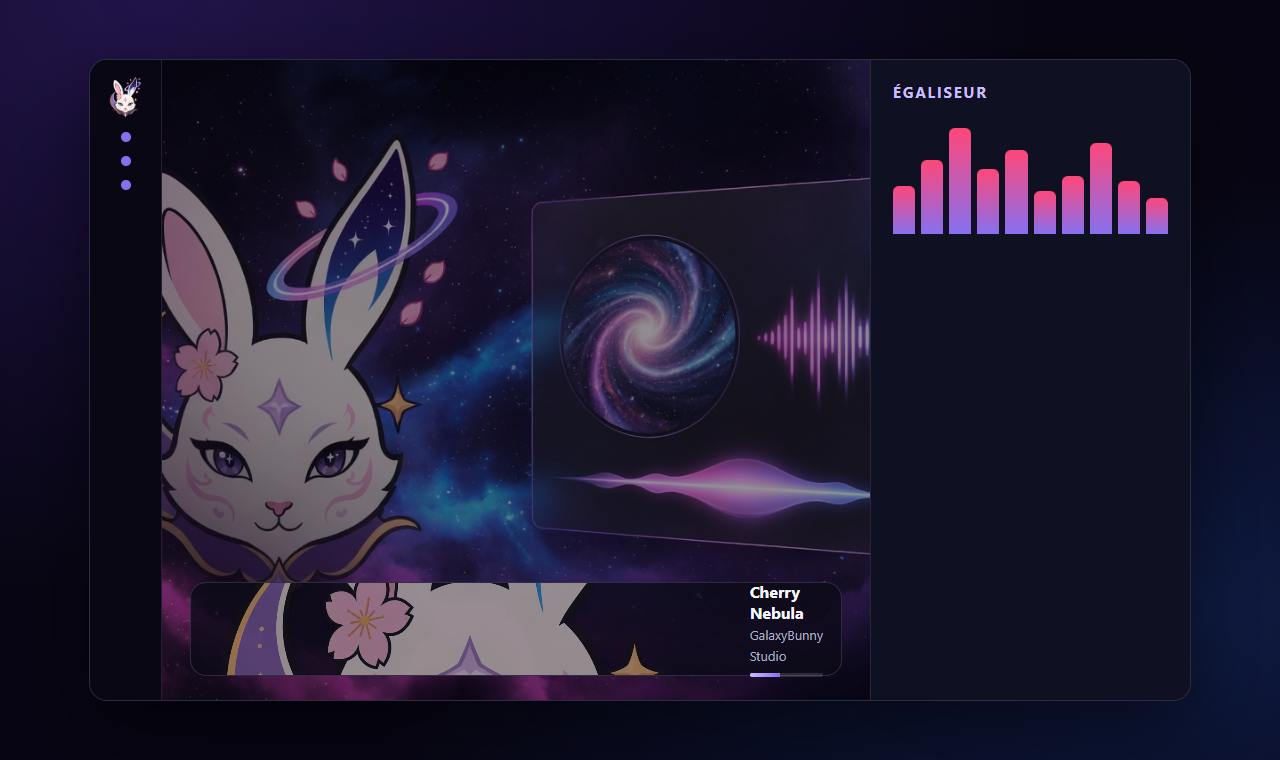
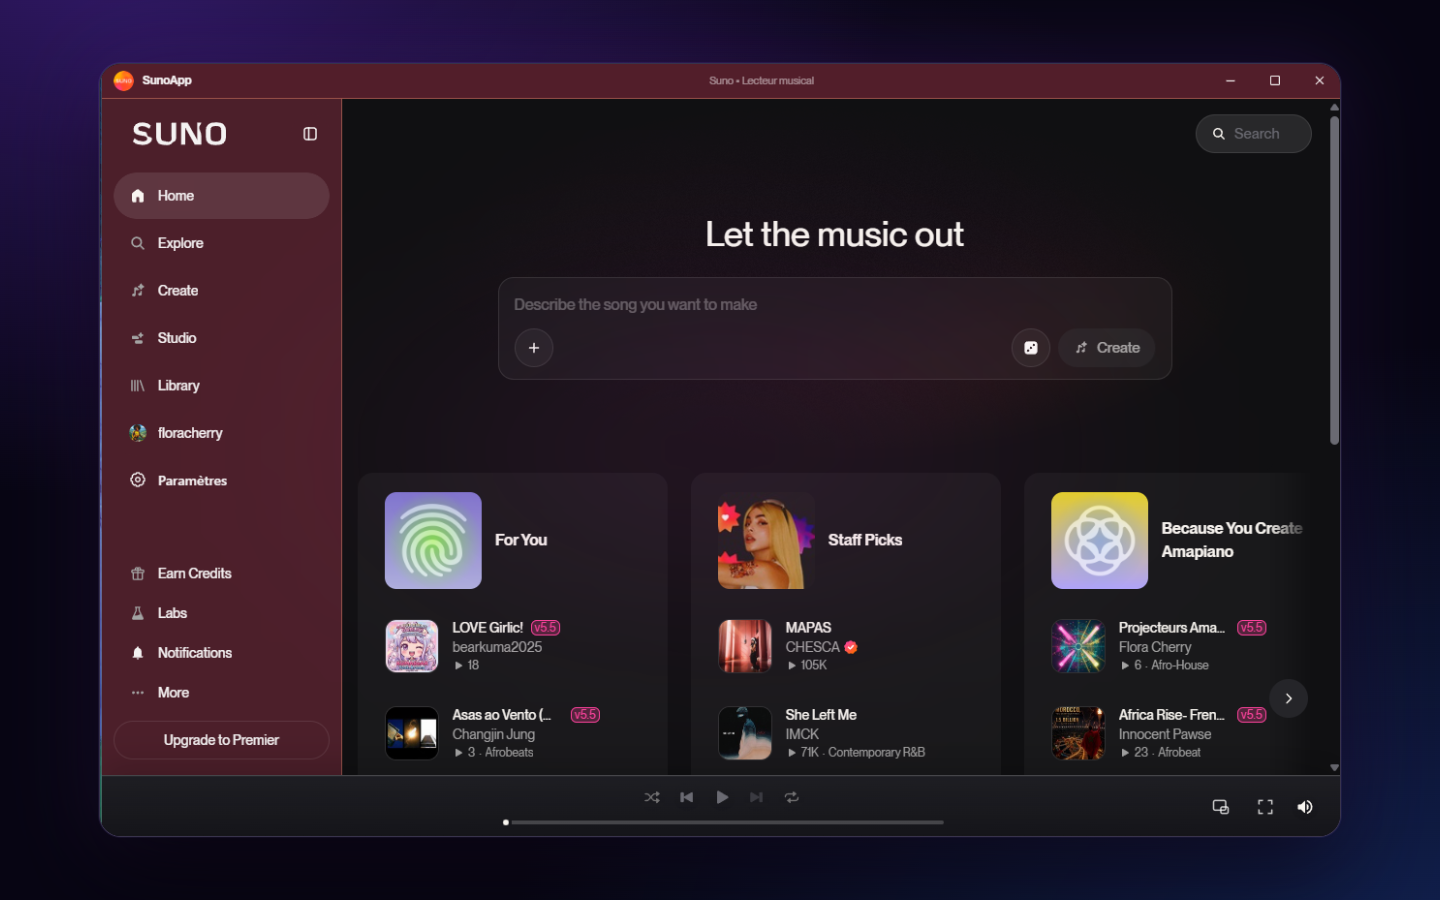
Use real SunoApp window screenshot for preview

diff --git a/docs/i18n.js b/docs/i18n.js
@@ -22,7 +22,7 @@ const I18N = {
     heroLead: "Application de bureau non officielle : lecteur personnalisé, mini-lecteur, égaliseur, thèmes GalaxyBunny. Votre session reste sur la machine.",
     ctaInstall: "Télécharger", ctaDev: "Développer",
     pillWin: "Windows", pillUnofficial: "Non officiel", pillFree: "Gratuit & open source",
-    shotHero: "Lecteur & spectre", shotMini: "Mini-lecteur",
+    shotHero: "SunoApp sur Windows", shotMini: "Mini-lecteur",
     featuresTitle: "Un studio d’écoute, pas seulement un navigateur",
     fPlayerT: "Lecteur personnalisé", fPlayerD: "Pochette, progression, forme d’onde, couleurs dynamiques selon le morceau.",
     fMiniT: "Mini-lecteur", fMiniD: "Toujours visible, en bas à droite, avec lecture, pause, précédent, suivant et volume.",
@@ -51,7 +51,7 @@ const I18N = {
     heroLead: "Unofficial desktop app: custom player, mini player, equalizer, GalaxyBunny themes. Your session stays on the machine.",
     ctaInstall: "Download", ctaDev: "Develop",
     pillWin: "Windows", pillUnofficial: "Unofficial", pillFree: "Free & open source",
-    shotHero: "Player & spectrum", shotMini: "Mini player",
+    shotHero: "SunoApp on Windows", shotMini: "Mini player",
     featuresTitle: "A listening studio, not just a browser",
     fPlayerT: "Custom player", fPlayerD: "Cover, progress, waveform, colors that follow the track.",
     fMiniT: "Mini player", fMiniD: "Always on top, bottom-right, with play, pause, previous, next, and volume.",

diff --git a/docs/index.html b/docs/index.html
@@ -11,7 +11,7 @@
   <meta property="og:type" content="website">
   <meta property="og:title" content="SunoApp · GalaxyBunny Studio">
   <meta property="og:description" content="Application Windows non officielle pour Suno. Lecteur personnalisé, mini-lecteur, égaliseur.">
-  <meta property="og:image" content="https://hanacherry.github.io/SunoApp/assets/hero-banner.jpg">
+  <meta property="og:image" content="https://hanacherry.github.io/SunoApp/assets/dashboard.png">
   <meta property="og:url" content="https://hanacherry.github.io/SunoApp/">
   <meta name="twitter:card" content="summary_large_image">
   <style>
@@ -92,16 +92,12 @@
           <span class="pill" data-i18n="pillFree">Gratuit & open source</span>
         </div>
       </div>
-      <div class="hero-visual"><img src="assets/hero-banner.jpg" alt="SunoApp"></div>
+      <div class="hero-visual"><img src="assets/dashboard.png" alt="SunoApp"></div>
     </section>
-    <section class="shots">
+    <section class="shots" style="grid-template-columns:1fr">
       <figure>
         <img src="assets/dashboard.png" alt="SunoApp">
-        <figcaption data-i18n="shotHero">Lecteur & spectre</figcaption>
-      </figure>
-      <figure>
-        <img src="assets/mini-player.png" alt="Mini-lecteur">
-        <figcaption data-i18n="shotMini">Mini-lecteur</figcaption>
+        <figcaption data-i18n="shotHero">SunoApp sur Windows</figcaption>
       </figure>
     </section>
     <section>

diff --git a/README.md b/README.md
@@ -58,7 +58,7 @@
 </p>
 
 <p align="center">
-  <img src="docs/assets/hero-banner.jpg" alt="SunoApp — GalaxyBunny Studio" width="900">
+  <img src="docs/assets/dashboard.png" alt="SunoApp — GalaxyBunny Studio" width="900">
 </p>
 
 ## Suno, dans une fenêtre Windows
@@ -70,11 +70,7 @@ Projet **indépendant**, développé par **Flora Cherry** / GalaxyBunny Studio. 
 ## Aperçu
 
 <p align="center">
-  <img src="docs/assets/dashboard.png" alt="SunoApp — lecteur et égaliseur" width="900">
-</p>
-
-<p align="center">
-  <img src="docs/assets/mini-player.png" alt="Mini-lecteur SunoApp" width="420">
+  <img src="docs/assets/dashboard.png" alt="SunoApp sur Windows" width="900">
 </p>
 
 ## Fonctions

diff --git a/README.en.md b/README.en.md
@@ -29,7 +29,7 @@
 </p>
 
 <p align="center">
-  <img src="docs/assets/hero-banner.jpg" alt="SunoApp — GalaxyBunny Studio" width="900">
+  <img src="docs/assets/dashboard.png" alt="SunoApp — GalaxyBunny Studio" width="900">
 </p>
 
 ## Suno, in a Windows window
@@ -41,11 +41,7 @@ SunoApp wraps Suno in a **desktop app**: custom player, always-on mini player, 1
 ## Preview
 
 <p align="center">
-  <img src="docs/assets/dashboard.png" alt="SunoApp player and equalizer" width="900">
-</p>
-
-<p align="center">
-  <img src="docs/assets/mini-player.png" alt="SunoApp mini player" width="420">
+  <img src="docs/assets/dashboard.png" alt="SunoApp on Windows" width="900">
 </p>
 
 ## Features
